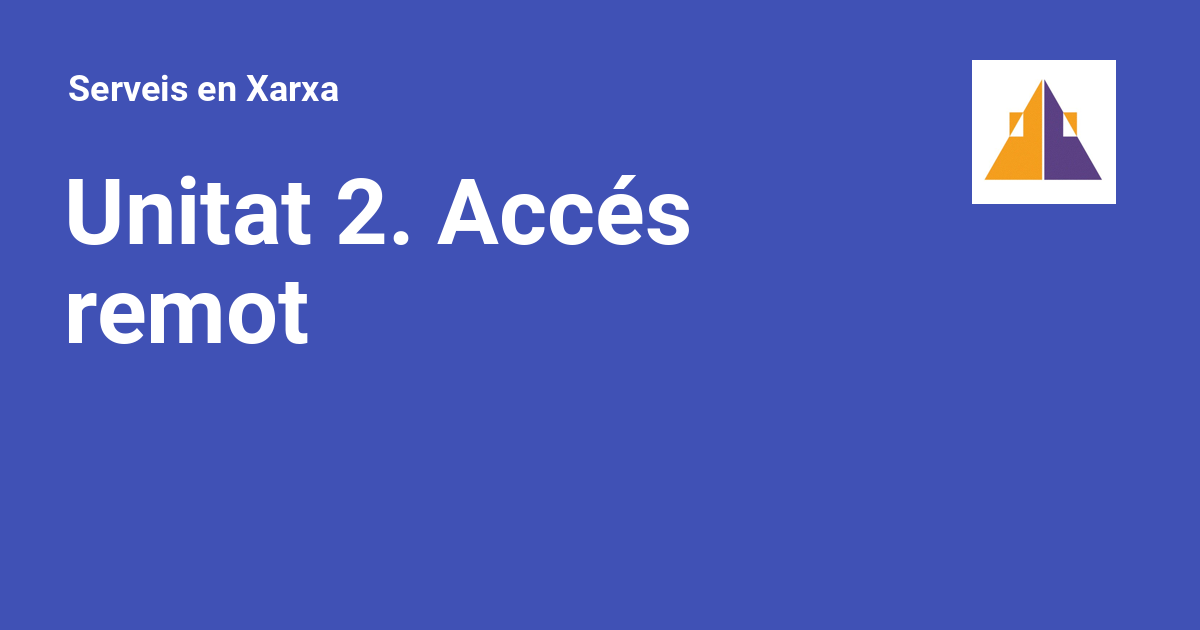
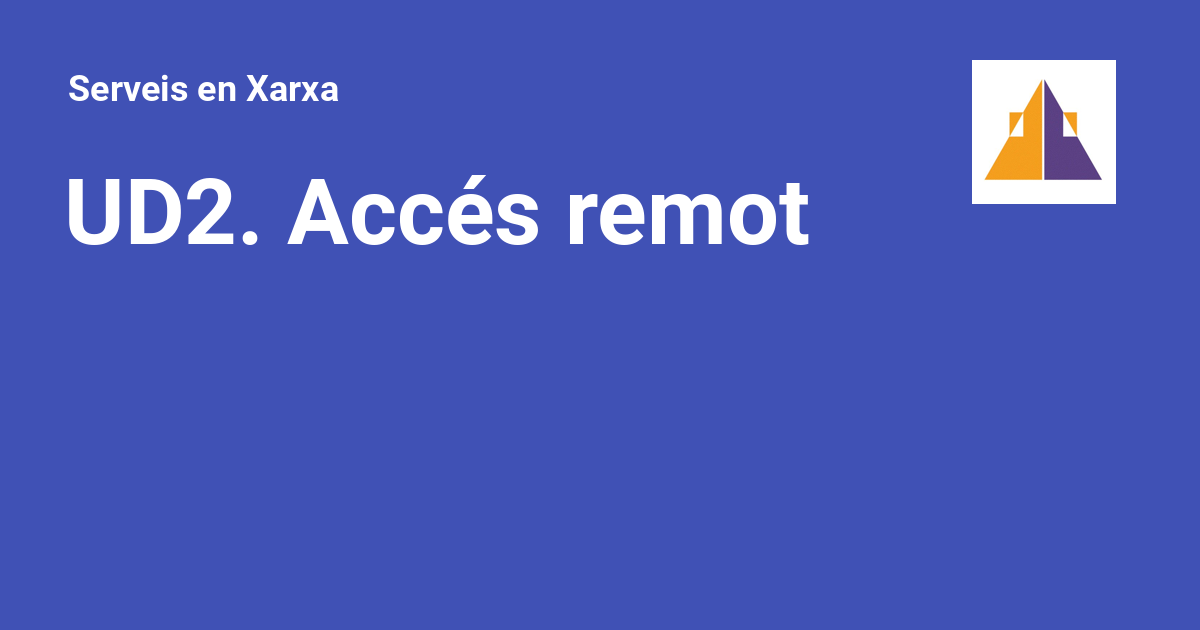
Actualització

Changed region(s): [[0.0925, 0.2714, 0.6783, 0.3921], [0.0308, 0.4524, 0.2775, 0.5429]]

diff --git a/SMX2-SXA-2/index.html b/SMX2-SXA-2/index.html
@@ -24,7 +24,7 @@
     
     
       
-        <title>Unitat 2. Accés remot - Serveis en Xarxa</title>
+        <title>UD2. Accés remot - Serveis en Xarxa</title>
       
     
     
@@ -69,7 +69,7 @@
       
         <meta  property="og:type"  content="website" >
       
-        <meta  property="og:title"  content="Unitat 2. Accés remot - Serveis en Xarxa" >
+        <meta  property="og:title"  content="UD2. Accés remot - Serveis en Xarxa" >
       
         <meta  property="og:description"  content="None" >
       
@@ -85,7 +85,7 @@
       
         <meta  name="twitter:card"  content="summary_large_image" >
       
-        <meta  name="twitter:title"  content="Unitat 2. Accés remot - Serveis en Xarxa" >
+        <meta  name="twitter:title"  content="UD2. Accés remot - Serveis en Xarxa" >
       
         <meta  name="twitter:description"  content="None" >
       
@@ -112,7 +112,7 @@
     <div data-md-component="skip">
       
         
-        <a href="#unitat-2-acces-remot" class="md-skip">
+        <a href="#ud2-acces-remot" class="md-skip">
           Salta el contingut
         </a>
       
@@ -147,7 +147,7 @@
         <div class="md-header__topic" data-md-component="header-topic">
           <span class="md-ellipsis">
             
-              Unitat 2. Accés remot
+              UD2. Accés remot
             
           </span>
         </div>
@@ -269,7 +269,7 @@
         
   
   <span class="md-ellipsis">
-    Unitat 1
+    UD1. Interconnexió de xarxes
   </span>
   
 
@@ -298,7 +298,7 @@
           
   
   <span class="md-ellipsis">
-    Unitat 2
+    UD2. Accés remot
   </span>
   
 
@@ -309,7 +309,7 @@
         
   
   <span class="md-ellipsis">
-    Unitat 2
+    UD2. Accés remot
   </span>
   
 
@@ -916,7 +916,7 @@
                   
 
 
-<h1 id="unitat-2-acces-remot">Unitat 2. Accés remot</h1>
+<h1 id="ud2-acces-remot">UD2. Accés remot</h1>
 <h2 id="introduccio">Introducció</h2>
 <p>La capacitat per accedir remotament a arxius i informació en el vostre ordinador a través d’Internet és útil tant per treballar com per jugar. Pot ser útil tant per recuperar un arxiu oblidat a l’ordinador com per permetre a un administrador de sistemes accedir a un servidor i modificar-ne la configuració. També és utilitzat per les companyies per permetre que els seus treballadors accedeixin al seu sistema i així poder utilitzar informació important, ja sigui des de les oficines del client o des de casa seva.</p>
 <p>Aquest ús tan diversificat fa que hi hagi moltes tecnologies disponibles per permetre aquest tipus d’accés: des del sistema de fitxers compartit incorporat en la majoria de sistemes operatius fins a eines més específiques desenvolupades per empreses.</p>
@@ -1296,7 +1296,7 @@
       <nav class="md-footer__inner md-grid" aria-label="Peu de pàgina" >
         
           
-          <a href="../SMX2-SXA-1/" class="md-footer__link md-footer__link--prev" aria-label="Anterior: Unitat 1">
+          <a href="../SMX2-SXA-1/" class="md-footer__link md-footer__link--prev" aria-label="Anterior: UD1. Interconnexió de xarxes">
             <div class="md-footer__button md-icon">
               
               <svg xmlns="http://www.w3.org/2000/svg" viewBox="0 0 24 24"><path d="M20 11v2H8l5.5 5.5-1.42 1.42L4.16 12l7.92-7.92L13.5 5.5 8 11h12Z"/></svg>
@@ -1306,7 +1306,7 @@
                 Anterior
               </span>
               <div class="md-ellipsis">
-                Unitat 1
+                UD1. Interconnexió de xarxes
               </div>
             </div>
           </a>

diff --git a/SMX2-SXA-1/index.html b/SMX2-SXA-1/index.html
@@ -276,7 +276,7 @@
           
   
   <span class="md-ellipsis">
-    Unitat 1
+    UD1. Interconnexió de xarxes
   </span>
   
 
@@ -287,7 +287,7 @@
         
   
   <span class="md-ellipsis">
-    Unitat 1
+    UD1. Interconnexió de xarxes
   </span>
   
 
@@ -522,7 +522,7 @@
         
   
   <span class="md-ellipsis">
-    Unitat 2
+    UD2. Accés remot
   </span>
   
 
@@ -1217,13 +1217,13 @@ A banda dels punts anteriors podem veure:</p>
         
         
           
-          <a href="../SMX2-SXA-2/" class="md-footer__link md-footer__link--next" aria-label="Següent: Unitat 2">
+          <a href="../SMX2-SXA-2/" class="md-footer__link md-footer__link--next" aria-label="Següent: UD2. Accés remot">
             <div class="md-footer__title">
               <span class="md-footer__direction">
                 Següent
               </span>
               <div class="md-ellipsis">
-                Unitat 2
+                UD2. Accés remot
               </div>
             </div>
             <div class="md-footer__button md-icon">

diff --git a/CanviMirror/index.html b/CanviMirror/index.html
@@ -269,7 +269,7 @@
         
   
   <span class="md-ellipsis">
-    Unitat 1
+    UD1. Interconnexió de xarxes
   </span>
   
 
@@ -289,7 +289,7 @@
         
   
   <span class="md-ellipsis">
-    Unitat 2
+    UD2. Accés remot
   </span>
   
 
@@ -691,7 +691,7 @@
       <nav class="md-footer__inner md-grid" aria-label="Peu de pàgina" >
         
           
-          <a href="../SMX2-SXA-2/" class="md-footer__link md-footer__link--prev" aria-label="Anterior: Unitat 2">
+          <a href="../SMX2-SXA-2/" class="md-footer__link md-footer__link--prev" aria-label="Anterior: UD2. Accés remot">
             <div class="md-footer__button md-icon">
               
               <svg xmlns="http://www.w3.org/2000/svg" viewBox="0 0 24 24"><path d="M20 11v2H8l5.5 5.5-1.42 1.42L4.16 12l7.92-7.92L13.5 5.5 8 11h12Z"/></svg>
@@ -701,7 +701,7 @@
                 Anterior
               </span>
               <div class="md-ellipsis">
-                Unitat 2
+                UD2. Accés remot
               </div>
             </div>
           </a>

diff --git a/404.html b/404.html
@@ -232,7 +232,7 @@
         
   
   <span class="md-ellipsis">
-    Unitat 1
+    UD1. Interconnexió de xarxes
   </span>
   
 
@@ -252,7 +252,7 @@
         
   
   <span class="md-ellipsis">
-    Unitat 2
+    UD2. Accés remot
   </span>
   
 

diff --git a/ManUbuntuServerDocker/index.html b/ManUbuntuServerDocker/index.html
@@ -269,7 +269,7 @@
         
   
   <span class="md-ellipsis">
-    Unitat 1
+    UD1. Interconnexió de xarxes
   </span>
   
 
@@ -289,7 +289,7 @@
         
   
   <span class="md-ellipsis">
-    Unitat 2
+    UD2. Accés remot
   </span>
   
 

diff --git a/Prac1NAT/index.html b/Prac1NAT/index.html
@@ -269,7 +269,7 @@
         
   
   <span class="md-ellipsis">
-    Unitat 1
+    UD1. Interconnexió de xarxes
   </span>
   
 
@@ -289,7 +289,7 @@
         
   
   <span class="md-ellipsis">
-    Unitat 2
+    UD2. Accés remot
   </span>
   
 

diff --git a/Prac2Telnet/index.html b/Prac2Telnet/index.html
@@ -269,7 +269,7 @@
         
   
   <span class="md-ellipsis">
-    Unitat 1
+    UD1. Interconnexió de xarxes
   </span>
   
 
@@ -289,7 +289,7 @@
         
   
   <span class="md-ellipsis">
-    Unitat 2
+    UD2. Accés remot
   </span>
   
 

diff --git a/Prac3SSH/index.html b/Prac3SSH/index.html
@@ -267,7 +267,7 @@
         
   
   <span class="md-ellipsis">
-    Unitat 1
+    UD1. Interconnexió de xarxes
   </span>
   
 
@@ -287,7 +287,7 @@
         
   
   <span class="md-ellipsis">
-    Unitat 2
+    UD2. Accés remot
   </span>
   
 

diff --git a/SMX2-SXA-Pràctiques/index.html b/SMX2-SXA-Pràctiques/index.html
@@ -267,7 +267,7 @@
         
   
   <span class="md-ellipsis">
-    Unitat 1
+    UD1. Interconnexió de xarxes
   </span>
   
 
@@ -287,7 +287,7 @@
         
   
   <span class="md-ellipsis">
-    Unitat 2
+    UD2. Accés remot
   </span>
   
 

diff --git a/index.html b/index.html
@@ -267,7 +267,7 @@
         
   
   <span class="md-ellipsis">
-    Unitat 1
+    UD1. Interconnexió de xarxes
   </span>
   
 
@@ -287,7 +287,7 @@
         
   
   <span class="md-ellipsis">
-    Unitat 2
+    UD2. Accés remot
   </span>
   
 
